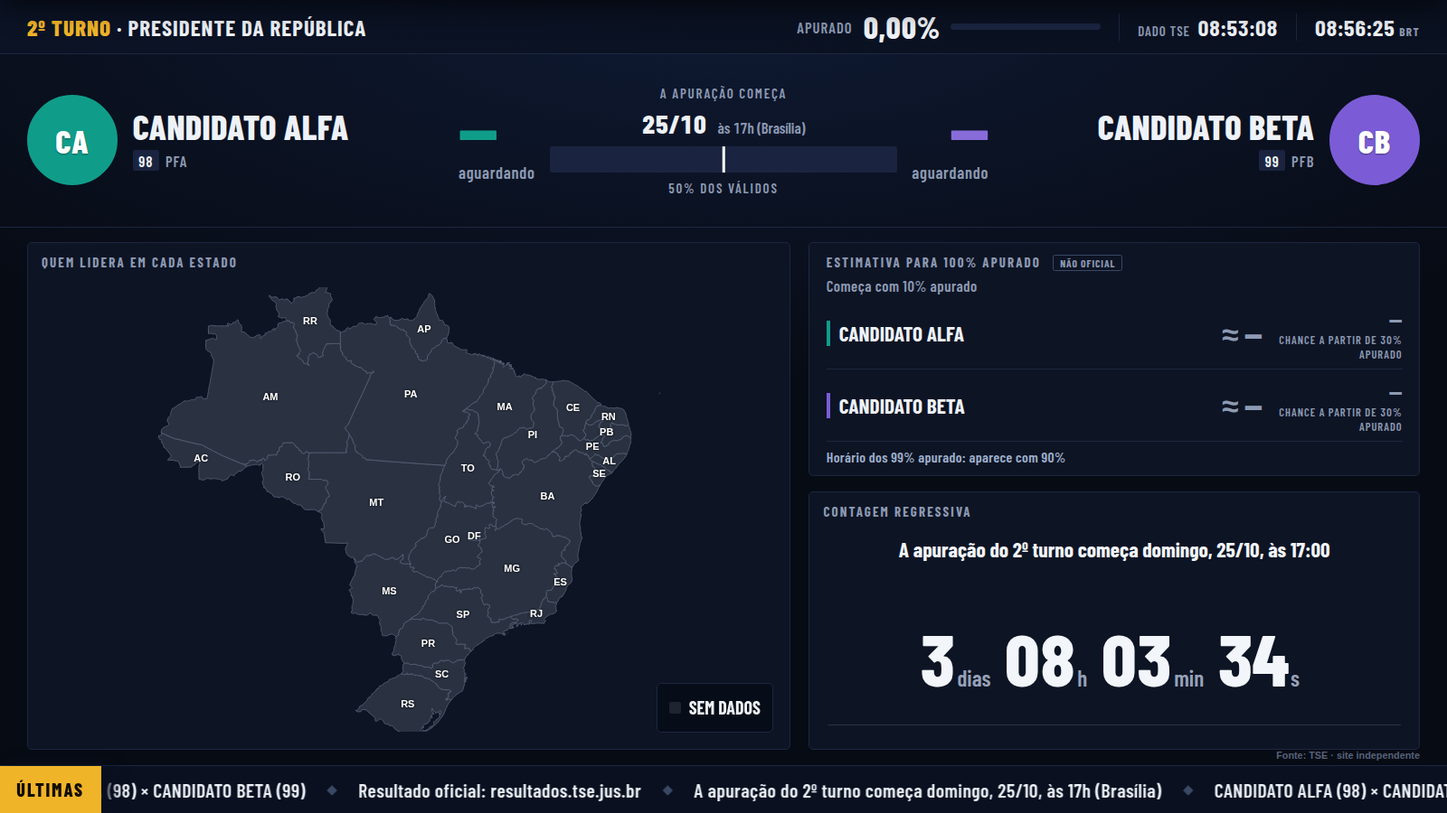
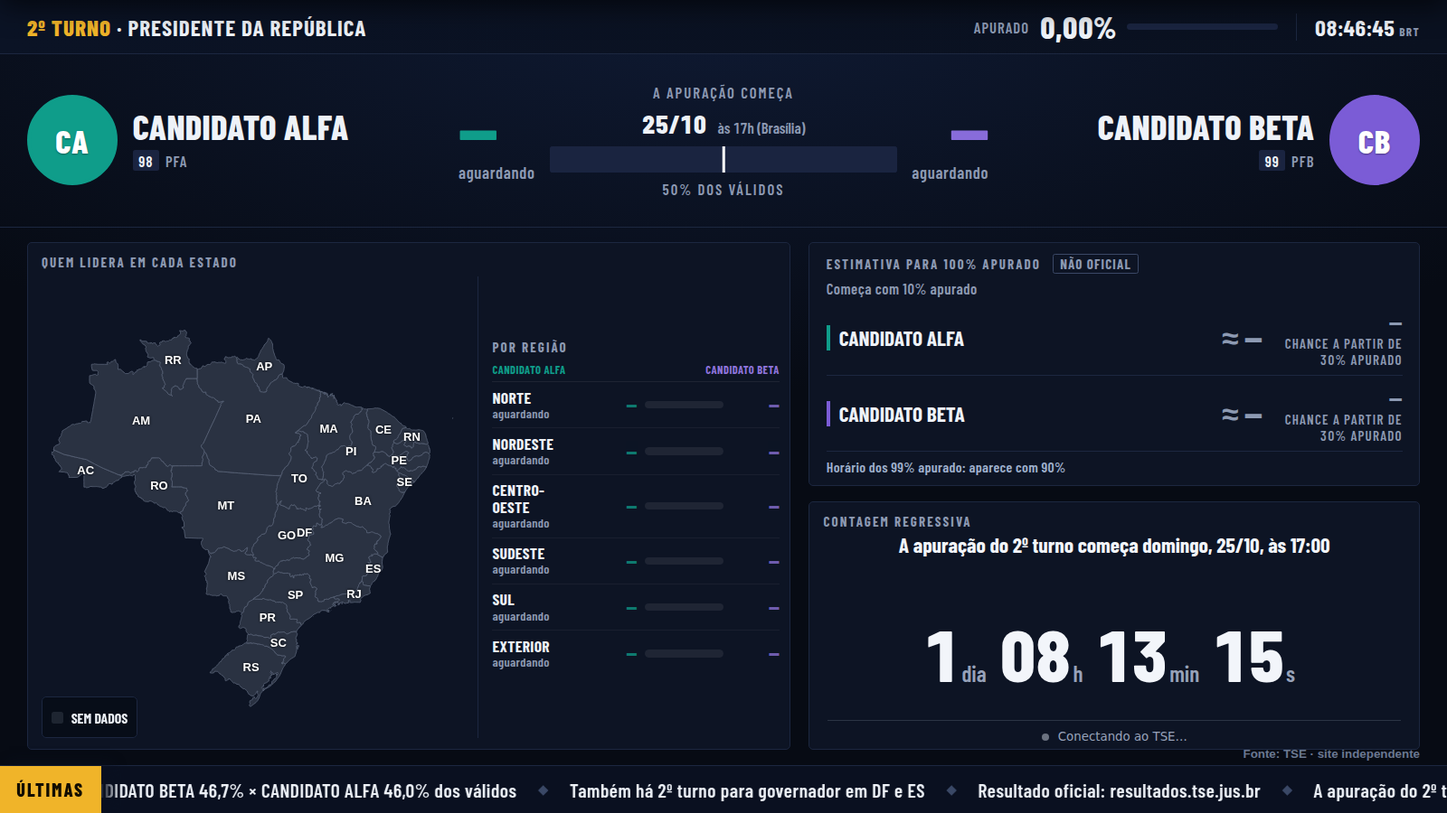
Site abre sem internet (service worker), aviso de sem internet/fora do ar, controles da TV com o mouse, fotos novas do README
Claude-Session: https://claude.ai/code/session_019SvYDZmwHD39tVfjSPYDWk

diff --git a/static/index.html b/static/index.html
@@ -4,13 +4,13 @@
 <meta charset="utf-8" />
 <meta name="viewport" content="width=device-width, initial-scale=1" />
 <meta http-equiv="Content-Security-Policy"
- content="default-src 'self'; script-src 'self' https://cdn.jsdelivr.net; style-src 'self' 'unsafe-inline' https://fonts.googleapis.com; font-src 'self' https://fonts.gstatic.com; img-src 'self' data: https://divulgacandcontas.tse.jus.br; connect-src 'self' ws: wss:;">
+ content="default-src 'self'; script-src 'self' https://cdn.jsdelivr.net; style-src 'self' 'unsafe-inline' https://fonts.googleapis.com; font-src 'self' https://fonts.gstatic.com; img-src 'self' data: https://divulgacandcontas.tse.jus.br; connect-src 'self' ws: wss: https://www.gstatic.com;">
 <link rel="preconnect" href="https://fonts.googleapis.com">
 <link rel="preconnect" href="https://fonts.gstatic.com" crossorigin>
 <link href="https://fonts.googleapis.com/css2?family=Inter:wght@400;500;600;700;800&family=JetBrains+Mono:wght@500;700&display=swap" rel="stylesheet">
 <title>Apuração 2026 · Brasil</title>
 <link rel="preload" href="/static/fonts/barlow-condensed-800.woff2" as="font" type="font/woff2" crossorigin><link rel="preload" href="/static/fonts/barlow-condensed-700.woff2" as="font" type="font/woff2" crossorigin><link rel="icon" type="image/svg+xml" href="/static/favicon.svg">
-<link rel="stylesheet" href="/static/app.css?v=20261023f" />
+<link rel="stylesheet" href="/static/app.css?v=20261024a" />
 </head>
 <body>
 
@@ -49,4 +49,4 @@
 <header class="hero"><nav class="d-topnav" aria-label="Seções da página"><a href="#lista-candidatos" class="d-topnav-link ativo" data-anchor="lista">Placar</a><a href="#mapa-secao" class="d-topnav-link" data-anchor="mapa">Mapa</a><a href="#timeline" class="d-topnav-link" data-anchor="timeline">Eventos</a><a href="/cola" class="d-topnav-link d-topnav-cta">Minha cola</a><a href="/urna" class="d-topnav-link">Minha seção</a><a href="/sobre" class="d-topnav-link">Sobre</a></nav><div class="hero-bg"></div><nav class="nav" aria-label="Filtros e ações"><div class="brand"><img class="logo" src="/static/logo.svg" alt="" width="40" height="40"><div><div class="brand-title">Apuração <span>2026</span></div><div class="brand-sub">Eleições Gerais · Brasil</div></div></div><div class="turno-toggle turno-toggle-desktop" role="group" aria-label="Escolher turno"><button type="button" class="turno-btn" data-turno="1" aria-pressed="false">1º turno</button><button type="button" class="turno-btn" data-turno="2" aria-pressed="true">2º turno</button></div><div class="filtros"><div class="filtro-grupo"><label for="sel-cargo">Cargo</label><select id="sel-cargo"><option value="1">Presidente</option><option value="3">Governador</option><option value="5">Senador</option><option value="6">Deputado Federal</option><option value="7">Deputado Estadual</option></select></div><div class="filtro-grupo"><label for="sel-uf">Abrangência</label><select id="sel-uf"><option value="BR">Brasil</option></select></div><button class="btn-ghost" id="btn-notif" title="Ativar notificações (n)" aria-label="Ativar notificações do navegador"><svg class="ico" width="18" height="18"><use href="#i-bell"/></svg></button><a id="btn-telegram" class="btn-ghost oculto" href="#" target="_blank" rel="noopener" title="Alertas no Telegram" aria-label="Bot do Telegram"><svg class="ico" width="18" height="18"><use href="#i-telegram"/></svg></a><time id="relogio-brt" class="relogio" aria-label="Hora de Brasília" title="Hora oficial de Brasília (BRT)">--:--:--</time><button class="btn-ghost" id="btn-compartilhar" title="Compartilhar (s)" aria-label="Compartilhar"><svg class="ico" width="18" height="18"><use href="#i-share"/></svg></button><button class="btn-ghost" id="btn-ajuda" title="Atalhos (?)" aria-label="Ajuda e atalhos"><svg class="ico" width="18" height="18"><use href="#i-help"/></svg></button></div></nav><section class="stats"><div class="stat stat-hero" title="Percentual das seções eleitorais já totalizadas pelo TSE"><div class="stat-label">Apurado</div><div class="stat-value" id="pct-apurado">—</div><div class="stat-progress"><div id="prog-apurado"></div></div><div class="stat-sub"><span id="secoes">—</span> <span id="secoes-sub">de — seções</span></div></div><div class="stat-secundarias"><div class="stat stat-mini" title="Eleitores que foram votar"><div class="stat-label">Comparecimento</div><div class="stat-value" id="comparecimento">—</div><div class="stat-sub" id="pct-comparecimento">dos aptos</div></div><div class="stat stat-mini" title="Eleitores aptos que não votaram"><div class="stat-label">Abstenções</div><div class="stat-value" id="abstencoes">—</div><div class="stat-sub" id="pct-abstencoes">dos aptos</div></div><div class="stat stat-mini" title="Votos que não contam para nenhum candidato"><div class="stat-label">Brancos e nulos</div><div class="stat-value" id="brancos-nulos">—</div><div class="stat-sub">brancos · nulos</div></div><div class="stat stat-mini stat-ultimo" title="Horário da última atualização recebida do TSE"><div class="stat-label">Último dado</div><div class="stat-value" id="ultimo">—</div><div class="stat-sub"><span id="ultimo-rel" class="ultimo-rel">—</span></div><div class="stat-sub" id="conexao"><span class="dot"></span> <span id="conexao-label">conectando</span></div></div></div></section></header>
 <div id="countdown" class="countdown oculto" aria-live="polite"></div>
 <main class="page"><h1 class="sr-only">Apuração 2026: resultados das eleições ao vivo</h1><section class="tvq" id="tv-quadro" hidden aria-label="Apuração no modo TV"><div class="tvq-quadro"><header class="tvq-topo"><span class="tvq-vivo" id="tvq-vivo" hidden>AO VIVO</span><span class="tvq-titulo" id="tvq-titulo"></span><div class="tvq-apurado"><span>Apurado</span><strong id="tvq-pct">—</strong><span class="tvq-barra" aria-hidden="true"><i id="tvq-barra"></i></span></div><span class="tvq-tse" id="tvq-tse"></span><span class="tvq-relogio" id="tvq-relogio"></span></header><section class="tvq-placar" id="tvq-placar"></section><div class="tvq-corpo"><div class="tvq-painel tvq-mapa"><span class="tvq-rot" id="tvq-mapa-rot">Quem lidera em cada estado</span><div class="tvq-slot" id="tvq-mapa-slot"></div><div class="tvq-regioes" id="tvq-regioes" hidden></div></div><div class="tvq-dir"><div class="tvq-painel tvq-est" id="tvq-est"></div><div class="tvq-painel tvq-graf"><span class="tvq-rot" id="tvq-graf-rot">Evolução dos válidos (%)</span><div class="tvq-slot" id="tvq-graf-slot"></div></div></div></div><footer class="tvq-ticker"><span class="tvq-tag">Últimas</span><span class="tvq-fixo" id="tvq-fixo" hidden></span><div class="tvq-trilho"><div class="tvq-fita" id="tvq-fita"></div></div></footer><div class="tvq-fonte">Fonte: TSE · site independente</div></div></section><section class="duelo" id="duelo" aria-labelledby="duelo-tit" hidden><p class="duelo-tit" id="duelo-tit"></p><div class="duelo-cands" id="duelo-cands"></div><div class="duelo-quando"><span class="duelo-quando-lab" id="duelo-quando-lab">A apuração começa em</span><span class="duelo-cd" id="duelo-cd" aria-live="off"></span><span class="duelo-data" id="duelo-data"></span></div><div class="duelo-placar" id="duelo-placar" hidden><div class="duelo-barra" id="duelo-barra" aria-hidden="true"><span id="duelo-barra-a"></span><span id="duelo-barra-b"></span></div><p class="duelo-dif" id="duelo-dif" aria-live="polite"></p><div class="duelo-apurado"><div class="duelo-apurado-bar" aria-hidden="true"><div id="duelo-apurado-fill"></div></div><span class="duelo-apurado-lab" id="duelo-apurado-lab"></span></div></div><section class="proj-painel" id="proj-painel" aria-labelledby="proj-painel-tit" hidden><h3 class="tv2t-proj-tit" id="proj-painel-tit">Estimativa para 100% apurado <span class="selo-nao-oficial">não oficial</span></h3><div class="tv2t-proj-linhas" id="proj-painel-linhas"></div><p class="tv2t-proj-aviso" id="proj-painel-aviso"></p></section></section><section class="regioes-secao" id="regioes-secao" aria-labelledby="regioes-tit" hidden><div class="page-header"><div><h2 id="regioes-tit">Por região</h2><p class="sub">Votos válidos de cada candidato nas urnas já apuradas em cada região.</p></div></div><div class="regioes-lista" id="regioes-lista"></div></section><div class="page-header lista-header"><div><h2 id="titulo-lista">Candidatos</h2><p class="sub" id="sub-lista"></p></div><div class="acoes"><span class="chip-count" id="chip-count" aria-live="polite">0 selecionado(s)</span><button class="btn-primary" id="btn-comparar" disabled aria-label="Abrir comparação dos candidatos selecionados">Comparar →</button></div></div><div class="prop-info oculto" id="prop-info"></div><div class="filtro-lista"><input type="search" id="busca-nome" aria-label="Buscar candidato" placeholder="Buscar por nome, número ou partido"><select id="filtro-partido" aria-label="Filtrar por partido"><option value="">Todos os partidos</option></select><select id="ordenar" aria-label="Ordenar candidatos"><option value="votos">Ordenar por votos</option><option value="numero">Ordenar por número</option><option value="nome">Ordenar por nome</option></select><span class="chip-count" id="chip-total">—</span></div><section class="grid-candidatos" id="lista-candidatos"></section><section class="comparacao oculto" id="comparacao"><div class="comp-header"><h2>Comparação</h2><button class="btn-ghost" id="btn-fechar">✕ Fechar</button></div><div class="cards-comp" id="cards-comp"></div><div class="dif-panel" id="dif-panel"><div class="dif-item"><div class="dif-label">Diferença absoluta (líder × 2º)</div><div class="dif-value" id="dif-abs">—</div></div><div class="dif-item"><div class="dif-label">Diferença em pontos %</div><div class="dif-value" id="dif-pct">—</div></div><div class="dif-item"><div class="dif-label">2º ainda pode passar o 1º?</div><div class="dif-value" id="dif-prob">—</div><div class="dif-hint" id="dif-prob-hint"></div></div></div><div class="grid-graficos"><div class="graf-card"><div class="graf-title">Votos absolutos ao longo do tempo</div><div class="graf" id="graf-votos"></div></div><div class="graf-card"><div class="graf-title">% dos votos válidos</div><div class="graf" id="graf-pct"></div></div><div class="graf-card"><div class="graf-title">Diferença acumulada (A − B)</div><div class="graf" id="graf-dif"></div></div><div class="graf-card"><div class="graf-title">Margem até vitória matemática</div><div class="graf" id="graf-banda"></div></div></div></section><section class="home-graf-secao" id="home-graf-secao"><div class="page-header"><div><h2>Evolução ao vivo</h2><p class="sub">% dos válidos ao longo da apuração.</p></div></div><div class="home-graf-wrap"><div id="graf-home" class="graf"></div><div class="home-graf-vazio" id="home-graf-vazio"><div class="status-coleta" id="status-coleta" role="status" aria-live="polite" aria-label="Status da coleta de dados do TSE"><div class="status-coleta-tit"><span class="status-dot" id="status-dot" hidden></span><span id="status-coleta-titulo">Carregando…</span></div><div class="status-coleta-grid" id="status-coleta-grid"></div><div class="status-coleta-rodape" id="status-coleta-rodape"></div></div><p class="home-graf-msg" id="home-graf-msg" hidden></p></div></div></section><nav class="cta-strip" aria-label="Ações rápidas"><a class="cta-pill" href="/urna"><svg class="cta-ico" width="18" height="18"><use href="#i-help"/></svg><span class="cta-txt"><b>Conferir minha seção</b><span class="cta-sub">Veja o boletim de urna (BU) do TSE</span></span><span class="cta-arrow">→</span></a><a class="cta-pill cta-brand" href="/cola"><svg class="cta-ico" width="18" height="18"><use href="#i-ballot"/></svg><span class="cta-txt"><b>Montar minha cola eleitoral</b><span class="cta-sub">Números dos seus candidatos, para imprimir</span></span><span class="cta-arrow">→</span></a></nav><section class="tv2t-placar" id="tv2t-placar" aria-hidden="true"><div class="tv2t-score"><div class="tv2t-diff"><span class="tv2t-diff-lab">DIFERENÇA</span><span class="tv2t-diff-num" id="tv2t-diff-num">—</span><span class="tv2t-diff-pct" id="tv2t-diff-pct">—</span></div><div class="tv2t-spread" id="tv2t-spread"><div class="tv2t-spread-a" id="tv2t-spread-a"></div><div class="tv2t-spread-b" id="tv2t-spread-b"></div></div><div class="tv2t-tendencia" title="Variação do % do líder desde a atualização anterior do TSE"><span class="tv2t-tend-lab">TENDÊNCIA</span><span class="tv2t-tend-num" id="tv2t-tend-num">—</span></div></div><div class="tv2t-progresso"><div class="tv2t-progresso-bar"><div id="tv2t-progresso-fill" style="width:0%"></div></div><span class="tv2t-progresso-lab" id="tv2t-progresso-lab">0% apurado · 0 de 0 seções</span></div><div class="tv2t-proj" id="tv2t-proj" hidden><div class="tv2t-proj-tit">Estimativa para 100% apurado <span class="selo-nao-oficial">não oficial</span></div><div class="tv2t-proj-linhas" id="tv2t-proj-linhas"></div><div class="tv2t-proj-aviso" id="tv2t-proj-aviso"></div></div></section><section class="tv2t-ufs" id="tv2t-ufs" aria-hidden="true"><h3 class="tv2t-ufs-titulo">UFs por líder</h3><div class="tv2t-ufs-wrap"><div class="tv2t-uf-coluna" id="tv2t-ufs-a"></div><div class="tv2t-uf-coluna" id="tv2t-ufs-b"></div></div></section><section class="mapa-secao" id="mapa-secao"><div class="page-header"><div><h2>Mapa por UF</h2><p class="sub">Toque num estado para ver os municípios.</p></div></div><div class="mapa-wrap"><div id="mapa-brasil" class="mapa"></div><div class="mapa-legenda" id="mapa-legenda"></div></div></section><section class="timeline-secao" id="timeline"><div class="page-header"><div><h2>Linha do tempo</h2><p class="sub">Viradas e resultados matematicamente decididos.</p></div></div><ul class="timeline" id="lista-eventos"><li class="vazio">Nenhum evento ainda.</li></ul></section><footer class="rodape"><div class="rodape-tv"><button type="button" class="btn-ghost" id="btn-tela-cheia" hidden title="Voltar à tela cheia">⛶ Tela cheia</button><button type="button" class="btn-ghost" id="btn-tv" aria-pressed="false" title="Tela cheia, letras grandes (f)">📺 Modo TV</button></div><div class="rodape-linha"><a href="/sobre">Sobre</a> · <a href="/sobre#faq">FAQ</a> · <a href="/sobre#termos">Termos</a> · <a href="/sobre#privacidade">Privacidade</a> · <a href="/sobre#metodologia">Metodologia</a> · <a href="/verificacao">Verificação / API</a> · <a href="/urna">Conferir minha seção</a> · <a href="/cola">Minha cola eleitoral</a> · <a href="https://resultados.tse.jus.br" target="_blank" rel="noopener">TSE oficial <svg width="12" height="12" style="vertical-align:middle"><use href="#i-external"/></svg></a></div><div class="rodape-aviso">Site independente, sem vínculo com o TSE. Dados de <code>resultados.tse.jus.br</code>; o resultado oficial é o do TSE.</div></footer></main>
-<div class="modal oculto" id="modal-cand" aria-modal="true" role="dialog"><div class="modal-back"></div><div class="modal-card" id="modal-card"></div></div><button class="btn-topo" id="btn-topo" aria-label="Voltar ao topo" title="Voltar ao topo"><svg width="18" height="18"><use href="#i-arrow-up"/></svg></button><div id="toasts"></div><div class="m-sheet oculto" id="m-sheet" role="dialog" aria-modal="true"><div class="m-sheet-back"></div><div class="m-sheet-card"><div class="m-sheet-grip"></div><h3 class="m-sheet-titulo" id="m-sheet-titulo">Escolher</h3><div class="m-sheet-lista" id="m-sheet-lista"></div></div></div><button class="m-fab oculto" id="m-fab-comparar" aria-label="Comparar selecionados"><svg width="18" height="18"><use href="#i-scale"/></svg><span class="m-fab-txt">Comparar <span id="m-fab-count">0</span></span></button><nav class="m-nav" role="tablist" aria-label="Seções"><button class="m-nav-item ativo" data-tab="placar" role="tab" aria-selected="true" aria-label="Placar"><svg class="m-nav-ico" width="22" height="22"><use href="#i-bar-chart"/></svg><span class="m-nav-lab">Placar</span></button><button class="m-nav-item" data-tab="mapa" role="tab" aria-selected="false" aria-label="Mapa"><svg class="m-nav-ico" width="22" height="22"><use href="#i-map"/></svg><span class="m-nav-lab">Mapa</span></button><button class="m-nav-item" data-tab="comparar" role="tab" aria-selected="false" aria-label="Comparar"><svg class="m-nav-ico" width="22" height="22"><use href="#i-scale"/></svg><span class="m-nav-lab">Comparar</span></button><button class="m-nav-item" data-tab="eventos" role="tab" aria-selected="false" aria-label="Eventos"><svg class="m-nav-ico" width="22" height="22"><use href="#i-clock"/></svg><span class="m-nav-lab">Eventos</span></button><button class="m-nav-item" data-tab="mais" role="tab" aria-selected="false" aria-label="Mais"><svg class="m-nav-ico" width="22" height="22"><use href="#i-menu"/></svg><span class="m-nav-lab">Mais</span></button></nav><script src="/static/vendor/echarts-5.5.1.min.js"></script><script type="module" src="/static/app.js?v=20261023f"></script></body></html>
+<div class="modal oculto" id="modal-cand" aria-modal="true" role="dialog"><div class="modal-back"></div><div class="modal-card" id="modal-card"></div></div><button class="btn-topo" id="btn-topo" aria-label="Voltar ao topo" title="Voltar ao topo"><svg width="18" height="18"><use href="#i-arrow-up"/></svg></button><div class="aviso-conexao" id="aviso-conexao" role="status" aria-live="polite" hidden></div><div id="toasts"></div><div class="m-sheet oculto" id="m-sheet" role="dialog" aria-modal="true"><div class="m-sheet-back"></div><div class="m-sheet-card"><div class="m-sheet-grip"></div><h3 class="m-sheet-titulo" id="m-sheet-titulo">Escolher</h3><div class="m-sheet-lista" id="m-sheet-lista"></div></div></div><button class="m-fab oculto" id="m-fab-comparar" aria-label="Comparar selecionados"><svg width="18" height="18"><use href="#i-scale"/></svg><span class="m-fab-txt">Comparar <span id="m-fab-count">0</span></span></button><nav class="m-nav" role="tablist" aria-label="Seções"><button class="m-nav-item ativo" data-tab="placar" role="tab" aria-selected="true" aria-label="Placar"><svg class="m-nav-ico" width="22" height="22"><use href="#i-bar-chart"/></svg><span class="m-nav-lab">Placar</span></button><button class="m-nav-item" data-tab="mapa" role="tab" aria-selected="false" aria-label="Mapa"><svg class="m-nav-ico" width="22" height="22"><use href="#i-map"/></svg><span class="m-nav-lab">Mapa</span></button><button class="m-nav-item" data-tab="comparar" role="tab" aria-selected="false" aria-label="Comparar"><svg class="m-nav-ico" width="22" height="22"><use href="#i-scale"/></svg><span class="m-nav-lab">Comparar</span></button><button class="m-nav-item" data-tab="eventos" role="tab" aria-selected="false" aria-label="Eventos"><svg class="m-nav-ico" width="22" height="22"><use href="#i-clock"/></svg><span class="m-nav-lab">Eventos</span></button><button class="m-nav-item" data-tab="mais" role="tab" aria-selected="false" aria-label="Mais"><svg class="m-nav-ico" width="22" height="22"><use href="#i-menu"/></svg><span class="m-nav-lab">Mais</span></button></nav><script src="/static/vendor/echarts-5.5.1.min.js"></script><script type="module" src="/static/app.js?v=20261024a"></script></body></html>

diff --git a/static/app.js b/static/app.js
@@ -3784,8 +3784,16 @@ function esconderControlesTV() {
   }
   document.body.classList.remove("tv-controles");
 }
+// Qualquer movimento do mouse mostra os controles (antes só no alto da
+// tela, e quem mexia no meio achava que não havia nada para clicar).
+// Ignora tremidas de poucos pixels (mouse parado na mesa, controle com
+// giroscópio), senão a barra nunca sumiria.
+let _tvMouse = null;
 document.addEventListener("mousemove", (e) => {
-  if (e.clientY < Math.max(70, innerHeight * 0.12)) mostrarControlesTV();
+  const ant = _tvMouse;
+  _tvMouse = { x: e.clientX, y: e.clientY };
+  if (ant && Math.abs(e.clientX - ant.x) + Math.abs(e.clientY - ant.y) < 6) return;
+  mostrarControlesTV(e.clientY < innerHeight * 0.2 ? 6000 : 4000);
 });
 // Toque em qualquer ponto da tela mostra os controles (com "Sair do modo
 // TV"): no celular não há mouse pra levar ao topo.
@@ -4215,6 +4223,72 @@ async function boot() {
 }
 
 boot().then(restaurarRolagem).catch(e => { console.error(e); toast("Erro: " + e.message, "danger"); });
+
+// Sem internet: o service worker (static/sw.js) guarda a página e os
+// últimos números, para o site abrir e esperar a conexão voltar.
+if ("serviceWorker" in navigator && (location.protocol === "https:" || location.hostname === "localhost")) {
+  navigator.serviceWorker.register("/sw.js").catch(() => {});
+}
+
+// ============ Aviso de conexão ============
+// Quando a conexão ao vivo cai, descobre de quem é o problema:
+//  - da pessoa (sem internet): avisa em ~10 s;
+//  - do site (internet ok, servidor não responde): só depois de 5 min,
+//    porque um deploy derruba o servidor por alguns minutos e a página
+//    se atualiza sozinha quando ele volta (checarVersao no onopen do WS).
+// "Tem internet?" = o servidor do Google responde (generate_204).
+const _conexao = { desde: 0, tipo: null, mostrado: false };
+function _comTempo(promessa, ms) {
+  return Promise.race([promessa, new Promise((_, rej) => setTimeout(() => rej(new Error("tempo")), ms))]);
+}
+async function diagnosticarConexao() {
+  if (!navigator.onLine) return "sem-internet";
+  try {
+    const r = await _comTempo(fetch("/api/hora", { cache: "no-store" }), 6000);
+    if (r.ok) return null;
+  } catch (e) { /* segue para o teste de internet */ }
+  try {
+    await _comTempo(fetch("https://www.gstatic.com/generate_204", { mode: "no-cors", cache: "no-store" }), 6000);
+    return "servidor";
+  } catch (e) {
+    return "sem-internet";
+  }
+}
+function renderAvisoConexao() {
+  const el = $("aviso-conexao");
+  if (!el) return;
+  const passou = Date.now() - _conexao.desde;
+  const mostrar = (_conexao.tipo === "sem-internet" && passou >= 8_000)
+    || (_conexao.tipo === "servidor" && passou >= 5 * 60_000);
+  if (!mostrar) {
+    if (!el.hidden && _conexao.mostrado && !_conexao.tipo) toast("Conexão de volta: números atualizados", "ok");
+    el.hidden = true; _conexao.mostrado = false;
+    return;
+  }
+  const snap = state.ultimoSnapshot;
+  const quando = snap?.disponivel ? fmtHora(snap.gerado_em_tse || snap.coletado_em) : null;
+  const dados = quando ? ` Os números na tela são os do boletim das ${quando}.` : "";
+  el.innerHTML = _conexao.tipo === "sem-internet"
+    ? `<b>Você está sem internet.</b>${dados} O site atualiza sozinho quando a conexão voltar.`
+    : `<b>O site está fora do ar no momento.</b>${dados} Ele volta sozinho, sem precisar recarregar. O resultado oficial está em resultados.tse.jus.br.`;
+  el.hidden = false; _conexao.mostrado = true;
+}
+async function vigiarConexao() {
+  const caiu = (state.ws && state.ws.readyState !== 1)
+    || (state.erroApiEm && Date.now() - state.erroApiEm < 30_000) || !navigator.onLine;
+  if (!caiu || document.hidden) {
+    if (!caiu) { _conexao.tipo = null; _conexao.desde = 0; }
+    renderAvisoConexao();
+    return;
+  }
+  const tipo = await diagnosticarConexao();
+  if (tipo !== _conexao.tipo) _conexao.desde = Date.now();
+  _conexao.tipo = tipo;
+  renderAvisoConexao();
+}
+setInterval(vigiarConexao, 5000);
+window.addEventListener("offline", vigiarConexao);
+window.addEventListener("online", () => { vigiarConexao(); if (state.ws?.readyState !== 1) conectarWS(); });
 
 // ============ Atualização automática de versão ============
 // A página nasce com a versão do front num <meta> (app/main.py). Se um

diff --git a/static/sw.js b/static/sw.js
@@ -1,0 +1,61 @@
+// Service worker: deixa o site abrir sem internet, com os últimos números
+// que a pessoa viu, e atualizar sozinho quando a conexão voltar.
+//
+// Com internet nada muda: TUDO vem da rede primeiro (rede → cópia guardada
+// só se a rede falhar). Não há "cache primeiro" em lugar nenhum, então um
+// deploy novo nunca fica preso numa versão velha guardada aqui.
+//
+// Para desligar em produção: trocar este arquivo por um que chame
+// self.registration.unregister() (os navegadores buscam o sw.js de novo
+// a cada visita).
+const CACHE = "elei-es-v1";
+const BASICO = [
+  "/",
+  "/static/app.js", "/static/app.css", "/static/partidos.js", "/static/mapa-br.js",
+  "/static/vendor/echarts-5.5.1.min.js", "/static/br-ufs.geojson",
+  "/static/logo.svg", "/static/favicon.svg",
+  "/static/fonts/barlow-condensed-700.woff2", "/static/fonts/barlow-condensed-800.woff2",
+];
+// Rotas que nunca vêm da cópia: hora certa, versão do front, admin.
+const NUNCA = /^\/(api\/(hora|versao|poller-status|admin)|admin|ws)\b/;
+
+self.addEventListener("install", (e) => {
+  self.skipWaiting();
+  // Melhor esforço: se algum arquivo falhar, os outros ficam.
+  e.waitUntil(caches.open(CACHE).then(c => Promise.all(BASICO.map(u => c.add(u).catch(() => {})))));
+});
+
+self.addEventListener("activate", (e) => {
+  e.waitUntil((async () => {
+    for (const k of await caches.keys()) if (k !== CACHE) await caches.delete(k);
+    await self.clients.claim();
+  })());
+});
+
+self.addEventListener("fetch", (e) => {
+  const req = e.request;
+  if (req.method !== "GET") return;
+  const url = new URL(req.url);
+  if (url.origin !== location.origin || NUNCA.test(url.pathname)) return;
+  e.respondWith(redePrimeiro(req, url));
+});
+
+async function redePrimeiro(req, url) {
+  const cache = await caches.open(CACHE);
+  const pagina = req.mode === "navigate";
+  // Páginas guardadas pelo caminho (sem ?turno=…); API pela URL inteira.
+  const chave = pagina ? url.pathname : req;
+  try {
+    const resp = await fetch(req);
+    if (resp.ok && resp.type === "basic") cache.put(chave, resp.clone()).catch(() => {});
+    return resp;
+  } catch (err) {
+    const api = url.pathname.startsWith("/api/");
+    const guardado = await cache.match(chave, { ignoreSearch: !api && !pagina })
+      || (pagina ? await cache.match("/") : null);
+    if (guardado) return guardado;
+    return api
+      ? new Response('{"erro":"sem conexão"}', { status: 503, headers: { "Content-Type": "application/json" } })
+      : Response.error();
+  }
+}

diff --git a/static/sobre.html b/static/sobre.html
@@ -168,6 +168,7 @@
     <li><strong>Linha do tempo.</strong> Viradas e resultados decididos, com horário.</li>
     <li><strong>Faixa de notícias (TV).</strong> Diferença de votos, comparecimento, estados encerrados e as outras disputas da noite, sempre com números do TSE.</li>
     <li><strong>Vencedor.</strong> Quando um candidato está matematicamente eleito, abre uma tela cheia com a foto, o nome e a porcentagem. Ela fecha sozinha (15 segundos no computador e no celular, 30 na TV) ou no botão. Depois fica a faixa "Vencedor" no alto e o selo "Eleito" no placar. A tela aparece uma vez por aparelho.</li>
+    <li><strong>Sem conexão.</strong> Se a sua internet cair, o site avisa e continua mostrando os últimos números, com o horário deles; se o próprio site sair do ar, avisa depois de alguns minutos. Nos dois casos ele volta a atualizar sozinho, sem precisar recarregar. Quem já abriu o site uma vez consegue abri-lo mesmo sem internet, com os números da última visita.</li>
   </ul>
 
   <h3>2.5. Outras páginas</h3>
@@ -320,7 +321,8 @@
     <li>Não há cadastro, não usamos cookies e não usamos ferramentas de estatística ou de publicidade de outras empresas.</li>
     <li>Para contar quantas pessoas acessam, guardamos, a cada página aberta, o horário, a página, o site de onde você veio e o tipo de navegador. O seu endereço de internet (IP) é transformado num código embaralhado que não permite descobrir o endereço original nem quem você é. Esses registros são apagados depois de 90 dias.</li>
     <li>A empresa que hospeda o site (Railway) mantém registros técnicos de acesso, com endereço de internet, navegador e horário, pelo prazo definido por ela, usados só para segurança e para corrigir problemas.</li>
-    <li>O seu navegador guarda, no seu aparelho, algumas preferências, como filtros escolhidos, o modo TV e quais avisos de vitória você já viu. Essas informações não são enviadas para nós.</li>
+    <li>O seu navegador guarda, no seu aparelho, algumas preferências, como filtros escolhidos, o modo TV e quais avisos de vitória você já viu, e uma cópia da página e dos últimos números para o site abrir sem internet. Essas informações não são enviadas para nós.</li>
+    <li>Quando a conexão com o site cai, ele consulta um endereço do Google (gstatic.com) só para saber se é a sua internet ou o site que está fora do ar. Nada sobre você é enviado nessa consulta.</li>
   </ul>
 
   <h3>6.2. No bot do Telegram</h3>

diff --git a/static/app.css b/static/app.css
@@ -3705,3 +3705,22 @@ body.tv-quadro .tvq-mapa.com-regioes .tvq-slot .mapa-legenda .leg-n { font-size:
 .proj-projetada b:first-child { color: #22c55e; letter-spacing: .02em; }
 .tvq-selo.tvq-selo-projetada { color: #04210f; background: #22c55e; border-color: #22c55e; font-size: calc(21 * var(--u)); font-weight: 800; }
 .tvq-est-virada.tvq-projetada b { color: #22c55e; }
+/* TV: cursor some junto com os controles (não fica uma seta parada no quadro). */
+body.tv-quadro:not(.tv-controles) { cursor: none; }
+/* Aviso de conexão (sem internet / site fora do ar) */
+.aviso-conexao {
+  position: fixed; left: 50%; bottom: 20px; z-index: 300; transform: translateX(-50%);
+  width: min(640px, calc(100vw - 32px)); box-sizing: border-box;
+  background: #3a2a06; color: #fde7b0; border: 1px solid #b45309; border-radius: 12px;
+  padding: 12px 16px; font-size: 14px; line-height: 1.45; box-shadow: 0 10px 30px rgba(0,0,0,.5);
+  animation: aviso-sobe .3s ease-out;
+}
+.aviso-conexao b { color: #fff; }
+.aviso-conexao[hidden] { display: none; }
+@keyframes aviso-sobe { from { opacity: 0; transform: translate(-50%, 12px); } to { opacity: 1; transform: translateX(-50%); } }
+@media (max-width: 768px) { .aviso-conexao { bottom: calc(76px + env(safe-area-inset-bottom)); font-size: 13px; } }
+body.tv-quadro .aviso-conexao {
+  top: calc(84 * min(calc(100vw / 1920), calc(100vh / 1080))); bottom: auto;
+  width: min(1100px, 70vw); font-size: calc(26 * min(calc(100vw / 1920), calc(100vh / 1080))); padding: .6em 1em;
+}
+@media (prefers-reduced-motion: reduce) { .aviso-conexao { animation: none; } }

diff --git a/app/main.py b/app/main.py
@@ -310,6 +310,13 @@ def create_app() -> FastAPI:
         except OSError:
             return FileResponse(caminho)
 
+    # Service worker na raiz (escopo "/"): servido de /static ele só
+    # controlaria /static/*. Sem cache HTTP, para uma troca valer na hora.
+    @app.get("/sw.js")
+    async def service_worker():
+        return FileResponse("static/sw.js", media_type="application/javascript",
+                            headers={"Cache-Control": "no-cache"})
+
     @app.get("/")
     async def index():
         return _servir_html_com_versao("static/index.html")

diff --git a/README.md b/README.md
@@ -13,9 +13,10 @@ Domingo, 25 de outubro de 2026, a partir das 17h (horário de Brasília): 2º tu
 ### O que o site mostra
 
 - **Placar ao vivo** com os números oficiais do TSE, atualizados a cada 20 segundos.
-- **Aviso de eleito** só quando não há mais como o resultado mudar, e um troféu na tela, até para quem estava com o celular bloqueado.
-- **Estimativa do resultado final** (não oficial): calculada estado por estado a partir do 1º turno, com margem de erro, chance de vencer, aviso de empate técnico e de possível virada.
-- **Mapa** de quem lidera em cada estado e em cada município, e o gráfico da evolução da contagem.
+- **Aviso de eleito** só quando não há mais como o resultado mudar, com a foto do eleito em tela cheia, até para quem estava com o celular bloqueado.
+- **Estimativa do resultado final** (não oficial): calculada estado por estado a partir do 1º turno, com margem de erro, chance de vencer, aviso de empate técnico, de possível virada e de "vitória projetada" quando a tendência já define o vencedor.
+- **Resultado por região** (Norte, Nordeste, Centro-Oeste, Sudeste, Sul e exterior), **mapa** de quem lidera em cada estado e em cada município, e o gráfico da evolução da contagem.
+- **Funciona com a internet ruim**: se a conexão cair, o site avisa e mostra os últimos números; volta sozinho quando a internet voltar.
 - **Modo TV**: tela cheia no formato de telejornal, com letreiro de últimas notícias da apuração (viradas, governadores, comparecimento).
 - **Conferir minha seção**: o boletim da urna onde você votou.
 
@@ -25,10 +26,14 @@ Não é o TSE nem de nenhum partido. O resultado oficial é sempre o de [resulta
 
 **Modo TV** (tela cheia, para deixar ligado na TV ou no computador)
 
-| Antes da apuração | Vitória definida |
+| Antes da apuração | Vitória projetada |
 |---|---|
-| <img src="docs/img/tv-antes.png" alt="Modo TV antes da apuração, com contagem regressiva" width="420"> | <img src="docs/img/tv-trofeu.png" alt="Troféu de vitória no modo TV" width="420"> |
-| Contagem regressiva, mapa e letreiro esperando as 17h. | O troféu aparece quando os votos que faltam não mudam mais o resultado. |
+| <img src="docs/img/tv-antes.png" alt="Modo TV antes da apuração, com contagem regressiva" width="420"> | <img src="docs/img/tv-projetada.png" alt="Modo TV com o selo vitória projetada na estimativa" width="420"> |
+| Contagem regressiva, mapa, regiões e letreiro esperando as 17h. | Com mais de 99% de chance pela tendência, a estimativa avisa (não oficial). |
+
+<img src="docs/img/tv-trofeu.png" alt="Modo TV: vencedor em tela cheia" width="100%">
+
+<sub>Quando os votos que faltam não mudam mais o resultado, o eleito ocupa a tela.</sub>
 
 <img src="docs/img/tv-eleito.png" alt="Modo TV depois da vitória: eleito marcado no placar e no letreiro" width="100%">
 
@@ -38,15 +43,19 @@ Não é o TSE nem de nenhum partido. O resultado oficial é sempre o de [resulta
 
 <img src="docs/img/computador-placar.png" alt="Placar e estimativa no computador" width="100%">
 
-| Mapa por estado | Evolução da apuração |
+| Por região | Mapa por estado |
 |---|---|
-| <img src="docs/img/computador-mapa.png" alt="Mapa com quem lidera em cada estado" width="420"> | <img src="docs/img/computador-grafico.png" alt="Gráfico da evolução dos votos válidos" width="420"> |
+| <img src="docs/img/computador-regioes.png" alt="Resultado por região" width="420"> | <img src="docs/img/computador-mapa.png" alt="Mapa com quem lidera em cada estado" width="420"> |
+
+| Evolução da apuração | Vencedor |
+|---|---|
+| <img src="docs/img/computador-grafico.png" alt="Gráfico da evolução dos votos válidos" width="420"> | <img src="docs/img/computador-vitoria.png" alt="Vencedor em tela cheia no computador" width="420"> |
 
 **Celular**
 
 | Antes da apuração | Durante | Vitória |
 |---|---|---|
-| <img src="docs/img/celular-antes.png" alt="Celular antes da apuração" width="250"> | <img src="docs/img/celular-placar.png" alt="Celular durante a apuração" width="250"> | <img src="docs/img/celular-trofeu.png" alt="Troféu no celular" width="250"> |
+| <img src="docs/img/celular-antes.png" alt="Celular antes da apuração" width="250"> | <img src="docs/img/celular-placar.png" alt="Celular durante a apuração" width="250"> | <img src="docs/img/celular-trofeu.png" alt="Vencedor em tela cheia no celular" width="250"> |
 
 ### Avisos no Telegram
 

diff --git a/CHANGELOG.md b/CHANGELOG.md
@@ -4,6 +4,12 @@ Histórico de mudanças relevantes. Formato inspirado em Keep a Changelog. Datas
 
 ## [Unreleased]
 
+### Sem internet, aviso de conexão, controles da TV e fotos novas do README (24/10)
+- Service worker (`/sw.js`, escopo raiz): rede primeiro em tudo; a cópia guardada (página, scripts, mapa, últimos números da API) só é usada quando a rede falha. Quem já abriu o site uma vez abre de novo sem internet, com os últimos números, e ele volta a atualizar sozinho. Admin, /api/hora e /api/versao nunca vêm da cópia. Para desligar: trocar o sw.js por um que chame `registration.unregister()`.
+- Aviso de conexão: com a conexão ao vivo caída, o site testa o servidor (/api/hora) e a internet (gstatic.com/generate_204). Sem internet: "Você está sem internet. Os números na tela são os do boletim das HH:MM…" em ~10 s. Internet ok e servidor fora: "O site está fora do ar no momento…" só depois de 5 min (deploy derruba por alguns minutos e a página recarrega sozinha quando volta). Na volta, o aviso some e aparece "Conexão de volta". CSP: `connect-src` inclui https://www.gstatic.com.
+- Modo TV: qualquer movimento do mouse mostra os controles (antes só no alto da tela); o cursor some junto com eles. Tremidas de menos de 6 px não contam.
+- README: fotos refeitas com o painel por região, vitória projetada, vencedor em tela cheia (TV, computador, celular) e o aviso de dado parado/conexão; /sobre explica o funcionamento sem conexão e a consulta ao gstatic.com.
+
 ### Segurança: piso do Starlette e token admin em tempo constante (24/10)
 - `starlette>=1.3.1` no pyproject: garante as correções da CVE-2026-48710 (BadHost, Host header) e da CVE-2026-54283 (formulário urlencoded sem limite). O site não era vulnerável na prática: as rotas /admin são protegidas por dependência (não por prefixo de caminho) e não há rota de formulário; o piso evita que um build futuro resolva uma versão antiga.
 - Comparação do X-Admin-Token com `hmac.compare_digest`.
